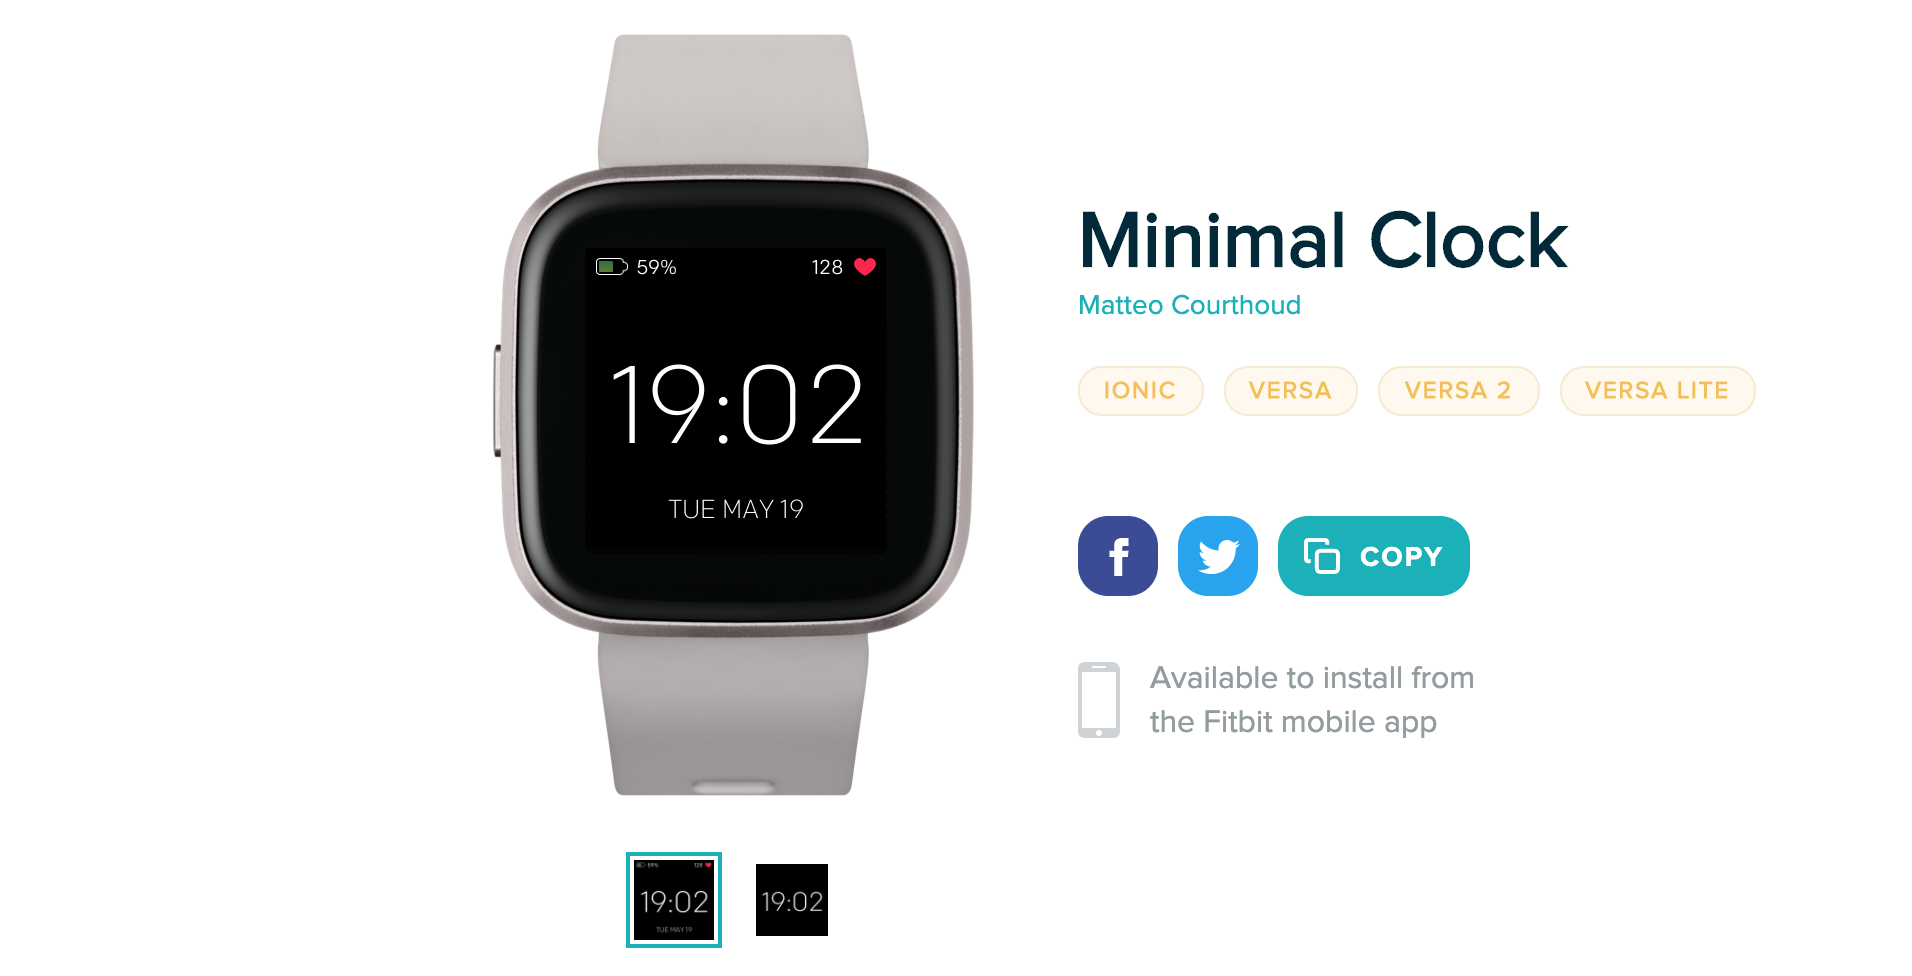
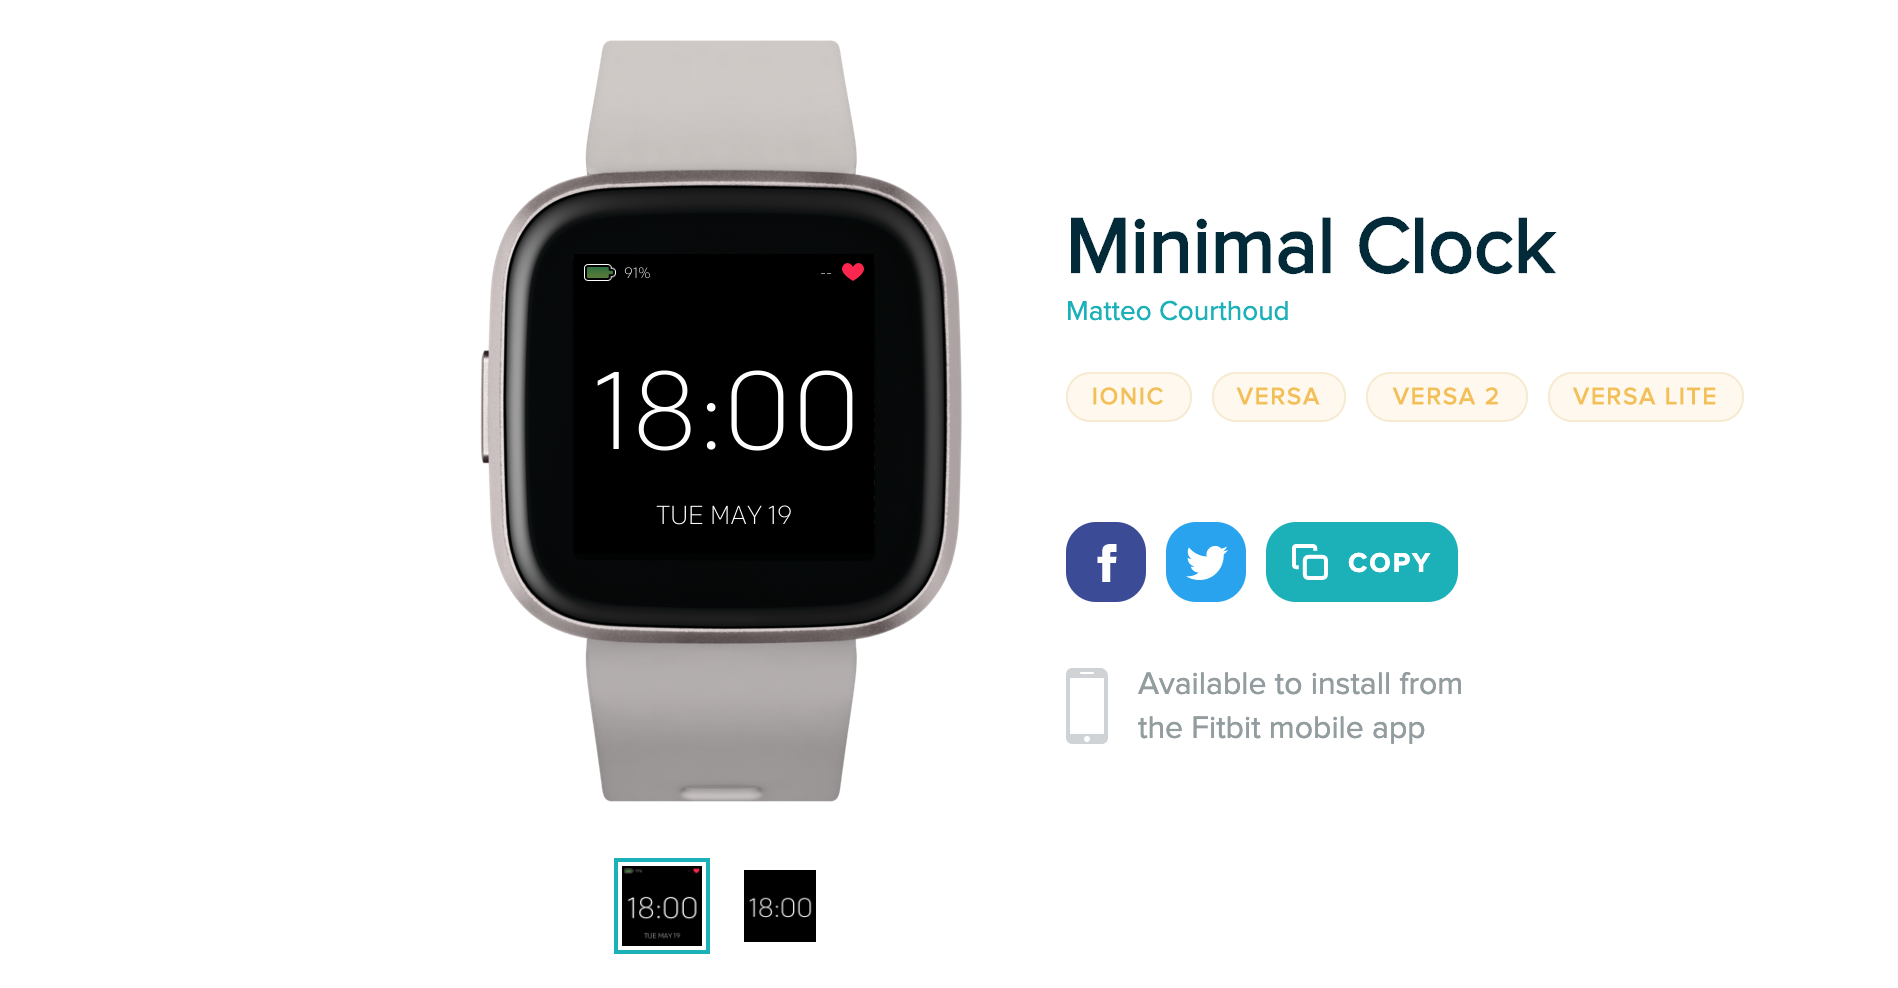
battery life optimization

diff --git a/app/index.js b/app/index.js
@@ -1,79 +1,129 @@
+import * as util from "./utils";
 import document from "document";
+import { user } from "user-profile";
+import { preferences } from "user-settings";
+import { display } from "display";
+import { clock } from "clock";
+import { battery } from "power";
+import { days, months } from "./locales/en.js";
+import { HeartRateSensor } from "heart-rate";
 
-import * as Clock from "./clock";
-import * as Battery from "./battery";
-import * as HRM from "./hrm";
 
 
 
 /* --------- CLOCK ---------- */
-let txtTime = document.getElementById("txtTime");
-let txtDate = document.getElementById("txtDate");
+const txtTime = document.getElementById("txtTime");
+const txtDate = document.getElementById("txtDate");
 
-function clockCallback(data) {
-  txtTime.text = data.time;
-  txtDate.text = data.date;
+clock.granularity = "minutes";
+
+function updateClock(evt) {
+  let today = evt.date;
+  let dayName = days[today.getDay()];
+  let month = util.zeroPad(today.getMonth() + 1);
+  let monthName = months[today.getMonth()];
+  let dayNumber = util.zeroPad(today.getDate());
+  let hours = today.getHours();
+  if (preferences.clockDisplay === "12h") {
+    // 12h format
+    hours = hours % 12 || 12;
+  } else {
+    // 24h format
+    hours = util.zeroPad(hours);
+  }
+  let mins = util.zeroPad(today.getMinutes());
+
+  txtTime.text = `${hours}:${mins}`;
+  txtDate.text = `${dayName} ${monthName} ${dayNumber}`;
 }
-Clock.initialize("minutes", "longDate", clockCallback);
+
 
 
 
 /* -------- BATTERY -------- */
-let txtBattery = document.getElementById("txtBattery");
-let iconBattery = document.getElementById("iconBattery");
-let fillBattery = document.getElementById("fillBattery");
+const txtBattery = document.getElementById("txtBattery");
+const iconBattery = document.getElementById("iconBattery");
+const fillBattery = document.getElementById("fillBattery");
 
-function batteryCallback(data) {
-  txtBattery.text = data.text;
-  fillBattery.href = data.href;
-  fillBattery.width = data.width;
+// Update battery
+function updateBattery() {
+  
+  txtBattery.text = `${battery.chargeLevel}%`;
+  
+  if (battery.chargeLevel>90) {
+    fillBattery.href = "images/battery_green_.png";
+    fillBattery.width = 26;
+  } else if (battery.chargeLevel>16) {
+    fillBattery.href = "images/battery_green_short_.png";
+    fillBattery.width = Math.floor(0.25*battery.chargeLevel)
+  }    
 }
-Battery.initialize(batteryCallback);
-
 
 
 
 /* -------- HRM ------------- */
-let txtHRM = document.getElementById("txtHRM");
-let iconHRM = document.getElementById("iconHRM");
-let imgHRM = iconHRM.getElementById("icon");
+const txtHRM = document.getElementById("txtHRM");
+const iconHRM = document.getElementById("iconHRM");
+const imgHRM = iconHRM.getElementById("icon");
 
-function hrmCallback(data) {
-  txtHRM.text = `${data.bpm}`;
-  if (data.zone === "out-of-range") {
+// Update HRM
+function updateHRM(hrm) {
+  txtHRM.text = `${hrm.heartRate}`;
+  const zone = user.heartRateZone(hrm.heartRate || 0);
+  if (zone === "out-of-range") {
     imgHRM.href = "images/heart_open.png";
   } else {
     imgHRM.href = "images/heart_solid.png";
   }
-  if (data.bpm !== "--") {
+  if (txtHRM.text !== "--") {
     iconHRM.animate("highlight");
   }
 }
-HRM.initialize(hrmCallback);
+
+
 
 
 
 /* -------- HIDE -------- */
-txtDate.style.visibility = 'hidden';
-txtHRM.style.visibility = 'hidden';
-imgHRM.style.visibility = 'hidden';
-txtBattery.style.visibility = 'hidden';
-iconBattery.style.visibility = 'hidden';
-fillBattery.style.visibility = 'hidden';
+function changeVisibility(visibility) {
+  txtDate.style.visibility = visibility;
+  txtHRM.style.visibility = visibility;
+  imgHRM.style.visibility = visibility;
+  txtBattery.style.visibility = visibility;
+  iconBattery.style.visibility = visibility;
+  fillBattery.style.visibility = visibility;
+}
 txtTime.onclick = function(e) {
   if (txtDate.style.visibility == 'visible') {
-    txtDate.style.visibility = 'hidden';
-    txtHRM.style.visibility = 'hidden';
-    imgHRM.style.visibility = 'hidden';
-    txtBattery.style.visibility = 'hidden';
-    iconBattery.style.visibility = 'hidden';
-    fillBattery.style.visibility = 'hidden';
+    changeVisibility('hidden')
   } else {
-    txtDate.style.visibility = "visible";
-    txtHRM.style.visibility = 'visible';
-    imgHRM.style.visibility = 'visible';
-    txtBattery.style.visibility = 'visible';
-    iconBattery.style.visibility = 'visible';
-    fillBattery.style.visibility = 'visible';
+    changeVisibility('visible')
   }
 }
+
+
+
+
+
+/* --------- GENERAL ---------- */
+
+// Event listenets
+clock.ontick = (evt) => updateClock(evt);
+battery.onchange = () => updateBattery();  
+const hrm = new HeartRateSensor();
+hrm.start();
+hrm.onreading = () => updateHRM(hrm); 
+
+// Automatically stop the sensor when the screen is off to conserve battery
+display.addEventListener("change", (evt) => {
+  if (display.on) {
+    hrm.start();
+    updateBattery();
+    updateHRM(hrm);
+   } else {
+    hrm.stop();
+   }
+});
+
+
+ 

diff --git a/app/battery.js b/app/battery.js
@@ -3,7 +3,7 @@
   Callback should be used to update your UI.
 */
 
-import { battery } from "power";
+
 
 let batteryCallback;
 
@@ -13,22 +13,4 @@ export function initialize(callback) {
   battery.onchange = () => updateBattery();
 }
 
-function updateBattery() {
-  
-  let batteryString = ";";
-  let hrefString = "";
-  let widthInt = 0;
-  
-  batteryString = `${battery.chargeLevel}%`;
-  
-  if (battery.chargeLevel>90) {
-    hrefString = "images/battery_green_.png";
-    widthInt = 26;
-  } else if (battery.chargeLevel>16) {
-    hrefString = "images/battery_green_short_.png";
-    widthInt = Math.floor(0.25*battery.chargeLevel)
-  }
-  
-  batteryCallback({text: batteryString, href: hrefString, width: widthInt});
-    
-}
+

diff --git a/resources/styles.css b/resources/styles.css
@@ -67,7 +67,7 @@
   text-anchor: middle;
   text-length: 10;
   x: 50%;
-  y: 90%;
+  y: 93%;
   width: 200;
   height: 24;
   fill: #FFFFFF;

diff --git a/README.md b/README.md
@@ -4,7 +4,6 @@
 
 You can download and install the clock face [here](https://gallery.fitbit.com/details/fb338486-0d4c-4f71-b0c7-508678c34195). Opinions and suggestions are welcome.
 
-TODO list:
+## Updates
 
-- customization settings
-- other statistics 
+- 1.1.0 Battery life optimization
